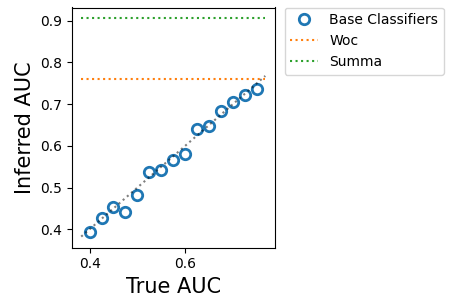
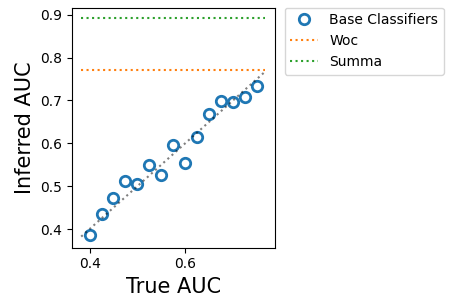
Make sml example.  Unified Binary and rank based sampling initerface. The Binary and EnsembleRankPredictions class instantiation interface remain distinct.

diff --git a/summa/simulate.py b/summa/simulate.py
@@ -17,30 +17,28 @@ class Binary:
     the 'rates' argument then sample according to ba_lims.
     
     Args:
-        M: (int) methods
-        N: (int) samples
-        N1: (int) positive class samples
+        m: (int) methods
         ba_lims : (float min_ba, float max_ba), such that each value
             v is 0 <= v <= 1
         rates : (dict, default None) dict keys value pairs of 
             ((M,) ndarray) of true positive rates, and 
             ((M,) ndarray) of true negative rates
-        rng: 
+        seed: 
     """
-    def __init__(self, M, N, N1, 
+    def __init__(self, m_classifiers,
                  ba_lims=(0.35, 0.9),
                  rates = None,
-                 rng = None):
+                 seed = None):
         
-        self.M, self.N, self.N1 = M, N, N1
+        self.m = m_classifiers
 
-        self.rng = np.random.defaul_rng(rng)
+        self.rng = np.random.default_rng(rng)
 
         if rates is None:
             self.ba, self.tpr, self.tnr = self._sample_rates_from_ba_lims(ba_lims)
 
         elif isinstance(rates, dict):
-            for j in range(self.M):
+            for j in range(self.m):
                 if rates["tpr"][j] < 0 or rates["tpr"][j] > 1:
                     raise ValueError("Each tpr must be between 0 and 1")
                 
@@ -54,9 +52,6 @@ class Binary:
             raise TypeError("Rates must be a dictionary with keys\n "
                              "'tpr' and 'tnr' and the values as M "
                              "length\nnumpy arrays of rates.")
-            
-        self.labels = np.hstack([np.ones(N1), 
-                                 -np.ones(N-N1)])
 
     @staticmethod
     def _sample_tpr_given_ba(ba):
@@ -119,7 +114,7 @@ class Binary:
 
         delta_ba = np.max([0, ba_lims[1] - ba_lims[0]])
 
-        ba = self.rng.rand(self.M) * delta_ba + ba_lims[0]
+        ba = self.rng.rand(self.m) * delta_ba + ba_lims[0]
 
         tpr = self._sample_tpr_given_ba(ba)
 
@@ -135,36 +130,41 @@ class Binary:
         """
         return 0.5*(self.tpr + self.tnr)
 
-    def sim(self):
+    def sample(self, n_samples, n_positive_class):
         """Generate simulation data, and store as class properties.
         
-        Generated properties:
-        self.data : ndarray
-        (M, N) ndarray of binary [-1, 1] predictions
+        Args:
+            n_samples: (int)
+            n_positive_class: (int)
 
-        
-        self.data : ndarray
-        (M, N) ndarray of M binary classifier binary predictions of N samples
+        Returns:
+            data: ((m, n_samples) ndarray)
+            labels: ((n_samples,) ndarray)
         """
         # initialize ndarrays
-        self.data = np.zeros(shape=(self.M, self.N))
+        data = np.zeros(shape=(self.m, n_samples))
 
-        # generate samples for each classifier
-        for j in range(self.M):
+        labels = np.hstack([np.ones(n_positive_class),
+            np.zeros(n_samples - n_positive_class)])
+
+        for j in range(self.m):
             
-            # loop over samples
-            for i in range(self.N):
-                # generate random number u between 0 and 1
+            for i in range(n_positive_class):
                 u = self.rng.rand()
                 
-                # if true sample label is positive, then sample
-                # from true positive rate
-                if self.labels[i] == 1:
-                    self.data[j, i] = 1 if u <= self.tpr[j] else -1
-                # if samples are not from the positive class, 
-                # they are from negative class
-                else:
-                    self.data[j, i] = -1 if u <= self.tnr[j] else 1
+                data[j, i] = 1 if u <= self.tpr[j] else -1
+
+            for i in range(n_positive_class, n_samples):
+                u = self.rng.rand()
+
+                data[j, i] = -1 if u <= self.tnr[j] else 1
+
+        idx = np.arange(n_samples)
+        rng.shuffle(idx)
+
+        data = data[:, idx]
+
+        return data[:, idx], labels[idx]
 
 
 class EnsembleGaussianPredictions:

diff --git a/example/sml_sim_and_fit.py b/example/sml_sim_and_fit.py
@@ -1,0 +1,48 @@
+
+"""Simulate data, fit, and plot results.
+
+By: Robert Vogel
+"""
+
+import os
+import numpy as np
+
+from summa import classifiers as cls
+from summa import simulate, plot, stats
+
+m_classifiers = 15
+ba_lims = (0.4, 0.75)
+
+n_samples = 2500
+prevalence = 0.3
+n_positive_samples = int(prevalence * n_samples)
+
+seed = 42
+rng = np.random.default_rng(seed)
+
+sim = simulate.Binary(m_classifiers, 
+        ba_lims=ba_lims,
+        seed=rng)
+        
+data, labels = sim.sample(n_samples, n_positive_samples)
+
+cl_sml = cls.Sml()
+cl_sml.fit(data)
+
+with open("sml_inferred_prevalence.txt", "w") as fid:
+    fid.write("Positive Class Prevalence\n"
+            f"Inferred:\t{cl_sml.prevalence:0.3f}\n"
+            f"True:\t\t{prevalence:0.3f}")
+
+
+cl_woc = cls.BinaryWoc()
+cl_woc.fit(data)
+
+ba = {}
+ba["Woc"] = stats.ba(cl_woc.get_inference(data), labels)
+ba["Summa"] = stats.ba(cl_summa.get_inference(data), labels)
+
+savename = os.path.join(os.path.dirname(__file__),
+            "sml_ba.png")
+
+plot.performance(sim.ba, cl_sml.ba, ba, savename=savename)

diff --git a/example/summa_sim_and_fit.py b/example/summa_sim_and_fit.py
@@ -24,7 +24,7 @@ data, labels = sim.sample(n_samples, n_positive_samples)
 cl_summa = cls.Summa()
 cl_summa.fit(data)
 
-with open("inferred_prevalence.txt", "w") as fid:
+with open("summa_inferred_prevalence.txt", "w") as fid:
     fid.write("Positive Class Prevalence\n"
             f"Inferred:\t{cl_summa.prevalence:0.3f}\n"
             f"True:\t\t{prevalence:0.3f}")

diff --git a/summa/stats.py b/summa/stats.py
@@ -365,7 +365,8 @@ def tpr(self, predictions, true_labels, positive_encoding=1):
     return true_rates(predictions, true_labels, positive_encoding)
 
 
-def ba(predictions, true_labels, positive_encoding=1, negative_encoding=-1):
+def ba(predictions, true_labels, 
+        positive_encoding=1, negative_encoding=-1):
     """Compute the balanced accuracy.
 
     Args:
